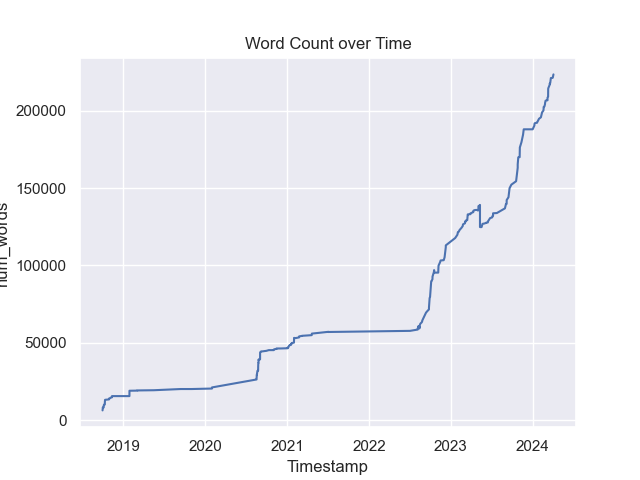
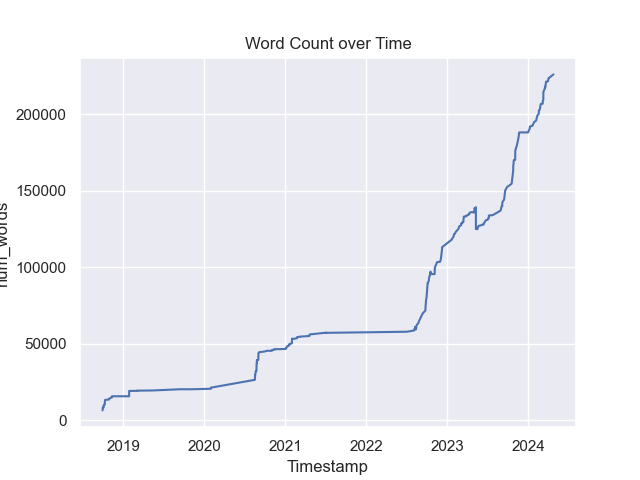
Updated stats

diff --git a/Readme.md b/Readme.md
@@ -6,3 +6,8 @@ If found, please return to:
     schaffer.austin.t@gmail.com
 
 This notebook contains notes about various topics, from various settings, almost all of them written in Markdown. Most of the contained notes are related to computer science and software engineering.
+
+## Directory
+
+- [Notebook Size Statistics](./Stats.md)
+
